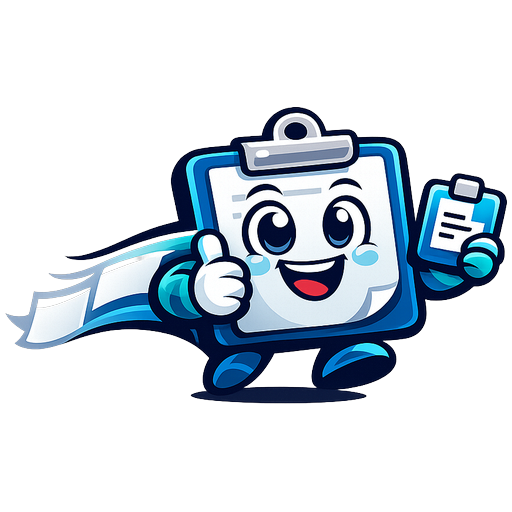
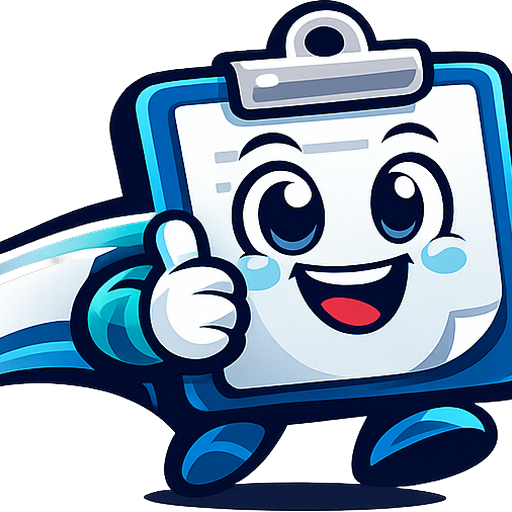
Add app download link and polish landing copy.
Point downloads to the latest GitHub release DMG, surface it on pricing, refresh icons, and clean up FAQ and UI separators.

diff --git a/components/landing/pricing.tsx b/components/landing/pricing.tsx
@@ -3,12 +3,13 @@
 import { motion, useReducedMotion } from "motion/react";
 import { Check, Sparkles } from "lucide-react";
 import { CheckoutButton } from "@/components/analytics/checkout-button";
+import { siteConfig } from "@/lib/site";
 
 const INCLUDES = [
   "Unlimited clipboard history",
   "Smart search & auto-categories",
   "⌘⇧V instant paste",
-  "Mac + iPhone (Universal Clipboard)",
+  "Mac + iPhone with Universal Clipboard",
   "Source app & browser tab capture",
   "Local storage. Your trail stays on your Mac",
   "Lifetime updates",
@@ -60,7 +61,7 @@ export function Pricing() {
               $9.99
             </span>
             <span className="mb-3 text-sm font-bold text-ct-muted">
-              USD · forever
+              USD, forever
             </span>
           </div>
 
@@ -91,7 +92,16 @@ export function Pricing() {
               Get ClipTrail $9.99
             </CheckoutButton>
             <p className="mt-3 text-center text-xs font-semibold text-ct-muted">
-              Opens secure checkout · macOS 13+ · Instant license
+              Opens secure checkout. macOS 13+. Instant license.
+            </p>
+            <p className="mt-2 text-center text-xs font-semibold text-ct-muted">
+              Already purchased?{" "}
+              <a
+                href={siteConfig.links.download}
+                className="text-ct-punch underline decoration-ct-punch/30 underline-offset-2 transition-colors hover:text-ct-midnight"
+              >
+                Download ClipTrail.dmg
+              </a>
             </p>
           </div>
         </div>

diff --git a/app/globals.css b/app/globals.css
@@ -101,14 +101,14 @@ body {
   background: rgba(21, 101, 192, 0.32);
 }
 
-/* ---------- Display font helper ---------- */
+/* Display font helper */
 .font-display {
   font-family: var(--font-display), "Nunito", system-ui, sans-serif;
   font-weight: 900;
   letter-spacing: -0.02em;
 }
 
-/* ---------- Cream canvas + lavender washes ---------- */
+/* Cream canvas + lavender washes */
 .ct-canvas {
   background:
     radial-gradient(60% 50% at 12% 8%, rgba(100, 181, 246, 0.22), transparent 70%),
@@ -122,7 +122,7 @@ body {
   background-size: 160px 160px;
 }
 
-/* ---------- Floater (product mock) ---------- */
+/* Floater (product mock) */
 .ct-floater {
   background: var(--ct-surface);
   border-radius: 28px;
@@ -199,7 +199,7 @@ body {
   letter-spacing: 0.02em;
 }
 
-/* ---------- CTA button ---------- */
+/* CTA button */
 .ct-cta {
   background: linear-gradient(180deg, #1f7be0 0%, var(--ct-punch) 100%);
   color: #fff;
@@ -233,7 +233,7 @@ body {
   transform: translateY(-1px);
 }
 
-/* ---------- Animations (CSS) ---------- */
+/* Animations */
 @keyframes ct-float {
   0%, 100% { transform: translateY(0); }
   50% { transform: translateY(-6px); }

diff --git a/components/landing/social-proof.tsx b/components/landing/social-proof.tsx
@@ -7,7 +7,7 @@ const QUOTES = [
   {
     quote: "Saved 47 clips on my first day. I have no idea how I worked without it.",
     name: "Maya R.",
-    role: "Designer · NYC",
+    role: "Designer, NYC",
   },
   {
     quote: "Hit ⌘⇧V, type two letters, paste. That’s the whole product. It’s perfect.",
@@ -17,7 +17,7 @@ const QUOTES = [
   {
     quote: "Finally a clipboard app that doesn’t feel like enterprise software.",
     name: "Priya S.",
-    role: "PM · remote",
+    role: "PM, remote",
   },
 ];
 
@@ -44,7 +44,7 @@ export function SocialProof() {
         <span className="hidden h-3 w-px bg-ct-midnight/15 md:inline-block" />
         <span>Trusted by people who copy too much</span>
         <span className="hidden h-3 w-px bg-ct-midnight/15 md:inline-block" />
-        <span>Built in public · Made for Mac</span>
+        <span>Built in public. Made for Mac.</span>
       </div>
 
       <div className="mt-10 grid gap-4 md:grid-cols-3">
@@ -60,11 +60,11 @@ export function SocialProof() {
             <blockquote className="text-[15px] font-semibold leading-relaxed text-ct-body">
               “{q.quote}”
             </blockquote>
-            <figcaption className="mt-4 flex items-center gap-2 text-xs font-semibold text-ct-muted">
+            <figcaption className="mt-4 text-xs font-semibold text-ct-muted">
               <span className="font-display font-extrabold text-ct-midnight">
                 {q.name}
               </span>
-              <span aria-hidden>·</span>
+              {", "}
               <span>{q.role}</span>
             </figcaption>
           </motion.figure>

diff --git a/lib/generate-app-icon.tsx b/lib/generate-app-icon.tsx
@@ -11,8 +11,6 @@ async function logoDataUrl() {
 
 export async function renderAppIcon(dim: number) {
   const src = await logoDataUrl();
-  const logoSize = Math.round(dim * 0.98);
-  const radius = dim >= 128 ? "22%" : dim >= 48 ? "20%" : "16%";
 
   return new ImageResponse(
     (
@@ -23,15 +21,14 @@ export async function renderAppIcon(dim: number) {
           display: "flex",
           alignItems: "center",
           justifyContent: "center",
-          background: "linear-gradient(180deg, #1e7adf 0%, #1565C0 100%)",
-          borderRadius: radius,
+          background: "transparent",
         }}
       >
         {/* eslint-disable-next-line @next/next/no-img-element */}
         <img
           src={src}
-          width={logoSize}
-          height={logoSize}
+          width={dim}
+          height={dim}
           alt=""
           style={{ objectFit: "contain" }}
         />

diff --git a/components/landing/mac-iphone.tsx b/components/landing/mac-iphone.tsx
@@ -38,10 +38,10 @@ export function MacIphone() {
               ClipTrail tags every clip by source, so you always know where it
               came from.
             </p>
-            <ul className="mt-6 space-y-2 text-[15px] font-semibold text-white/85">
-              <li>· Universal Clipboard, finally browseable</li>
-              <li>· Source app + browser tab captured automatically</li>
-              <li>· One trail for both devices</li>
+            <ul className="mt-6 list-disc space-y-2 pl-5 text-[15px] font-semibold text-white/85">
+              <li>Universal Clipboard, finally browseable</li>
+              <li>Source app + browser tab captured automatically</li>
+              <li>One trail for both devices</li>
             </ul>
           </div>
 

diff --git a/components/landing/faq.tsx b/components/landing/faq.tsx
@@ -28,12 +28,11 @@ export const FAQ_ITEMS = [
   {
     question: "What macOS version do I need?",
     answer:
-      "ClipTrail is built for macOS 13 (Ventura) and newer. It runs as a tiny menubar app with no dock icon unless you want one.",
+      "ClipTrail is built for macOS 13 Ventura and newer. It runs as a tiny menubar app with no dock icon unless you want one.",
   },
   {
-    question: "How do I activate my license?",
-    answer:
-      "After checkout you receive a license key by email. Paste it into ClipTrail’s “Activate license” screen and your trail unlocks instantly.",
+    question: "How do I download and activate ClipTrail?",
+    answer: `Download ClipTrail.dmg for macOS 13+, open it, and drag ClipTrail to Applications. After checkout you receive a license key by email. Paste it into “Activate license” in the app and your trail unlocks instantly.`,
   },
   {
     question: "Can I get a refund?",

diff --git a/components/landing/product-mock.tsx b/components/landing/product-mock.tsx
@@ -384,7 +384,6 @@ function ClipMeta({ clip }: { clip: ClipItem }) {
       <span className="shrink-0">{clip.time}</span>
       {clip.device === "iphone" ? (
         <>
-          <span className="text-ct-lavender-mid">·</span>
           <span className="inline-flex shrink-0 items-center gap-0.5 rounded-full bg-blue-50 px-1.5 py-px font-bold text-blue-500">
             <Smartphone size={8} strokeWidth={2.5} />
             iPhone
@@ -394,7 +393,6 @@ function ClipMeta({ clip }: { clip: ClipItem }) {
         <>
           {clip.sourceApp ? (
             <>
-              <span className="text-ct-lavender-mid">·</span>
               <span className="max-w-[72px] shrink truncate rounded-full bg-ct-lavender-light px-1.5 py-px text-ct-muted ring-1 ring-ct-lavender-mid/30">
                 {clip.sourceApp}
               </span>
@@ -402,7 +400,6 @@ function ClipMeta({ clip }: { clip: ClipItem }) {
           ) : null}
           {clip.sourceUrl ? (
             <>
-              <span className="text-ct-lavender-mid">·</span>
               <span className="inline-flex max-w-[96px] min-w-0 shrink items-center gap-1 truncate rounded-full bg-ct-lavender-light py-px pr-1.5 pl-1 text-ct-lavender-text ring-1 ring-ct-lavender-mid/35">
                 <Globe size={9} strokeWidth={2.5} className="shrink-0" />
                 <span className="truncate">{clip.sourceUrl}</span>

diff --git a/lib/site.ts b/lib/site.ts
@@ -15,6 +15,9 @@ export const siteConfig = {
     checkout:
       process.env.NEXT_PUBLIC_POLAR_CHECKOUT_URL ||
       "https://buy.polar.sh/polar_cl_OAK7MkjYffDn1xZI1ff25KXII5Vz4iwzr0Js316G5y7",
+    download:
+      process.env.NEXT_PUBLIC_APP_DOWNLOAD_URL ||
+      "https://github.com/Lotfi-Hadjsadok/Cliptrail/releases/latest/download/ClipTrail.dmg",
     support: "mailto:[email redacted]",
   },
   ga: process.env.NEXT_PUBLIC_GA_MEASUREMENT_ID || "",